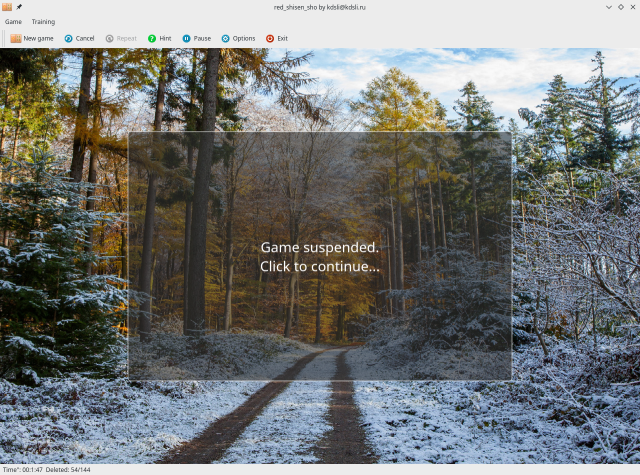
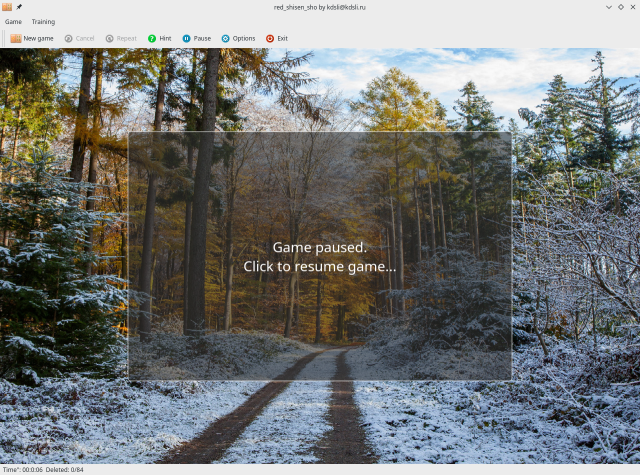
Cosmetic change

Changed region(s): [[0.375, 0.5011, 0.625, 0.5895], [0.0938, 0.0589, 0.1562, 0.0884], [0.125, 0.9726, 0.1562, 1.0]]

diff --git a/translations/red_shisen_sho_en.ts b/translations/red_shisen_sho_en.ts
@@ -16,7 +16,7 @@
     <message>
         <location line="+490"/>
         <source>Игра приостановлена.</source>
-        <translation>Game suspended.</translation>
+        <translation>Game paused.</translation>
     </message>
     <message>
         <location line="+1"/>
@@ -37,7 +37,7 @@
         <location line="-14"/>
         <location line="+15"/>
         <source>Щелкните для продолжения...</source>
-        <translation>Click to continue...</translation>
+        <translation>Click to resume game...</translation>
     </message>
 </context>
 <context>
